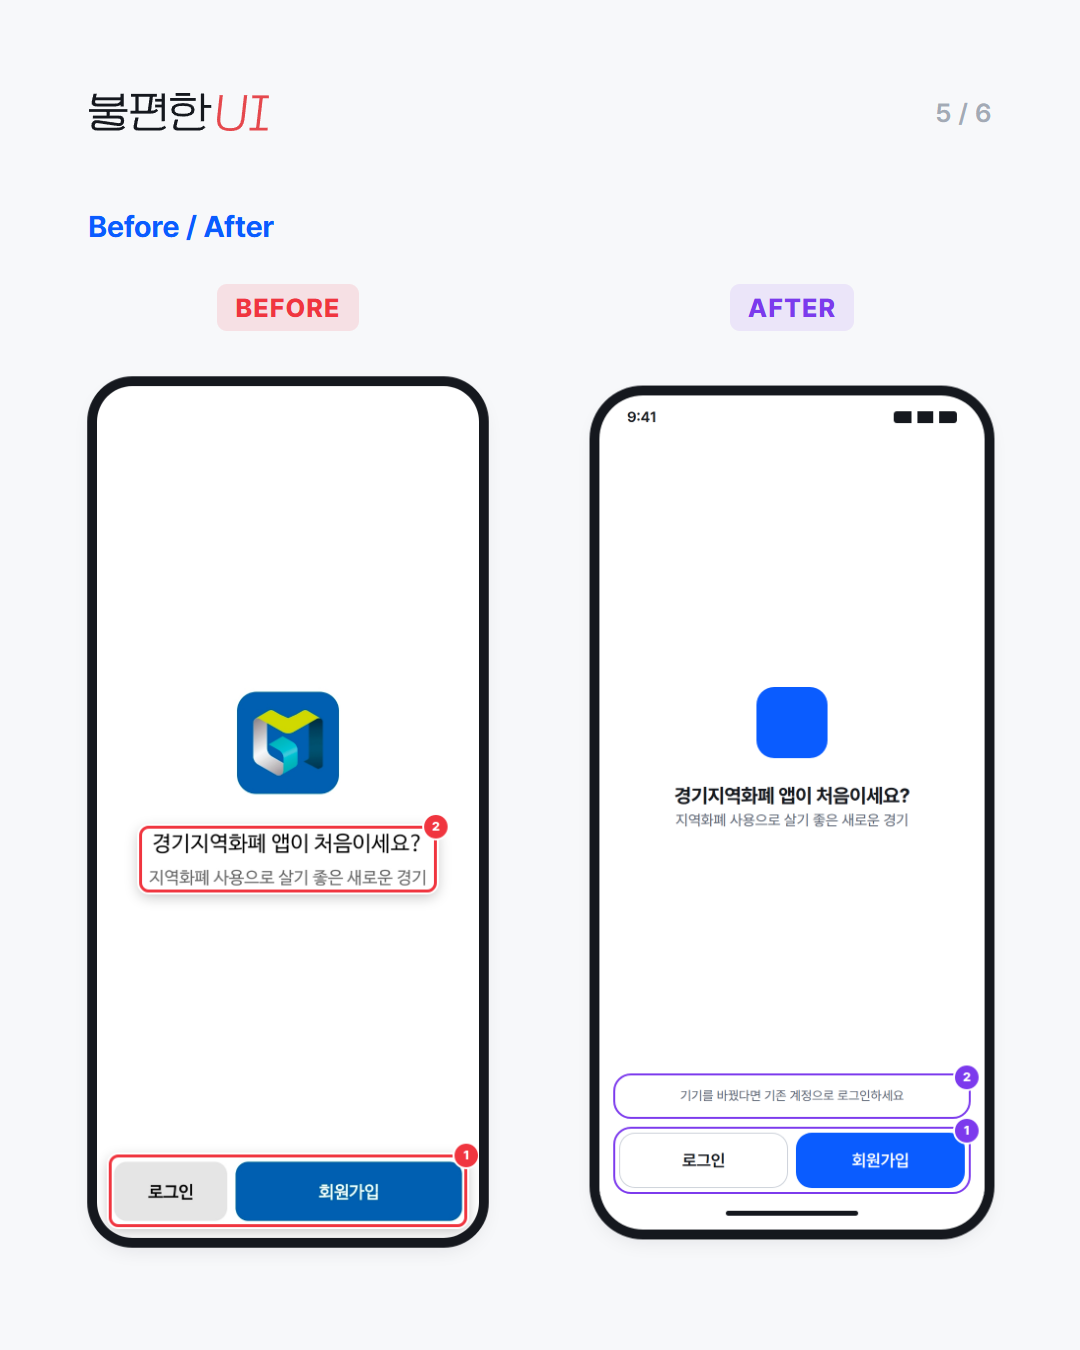
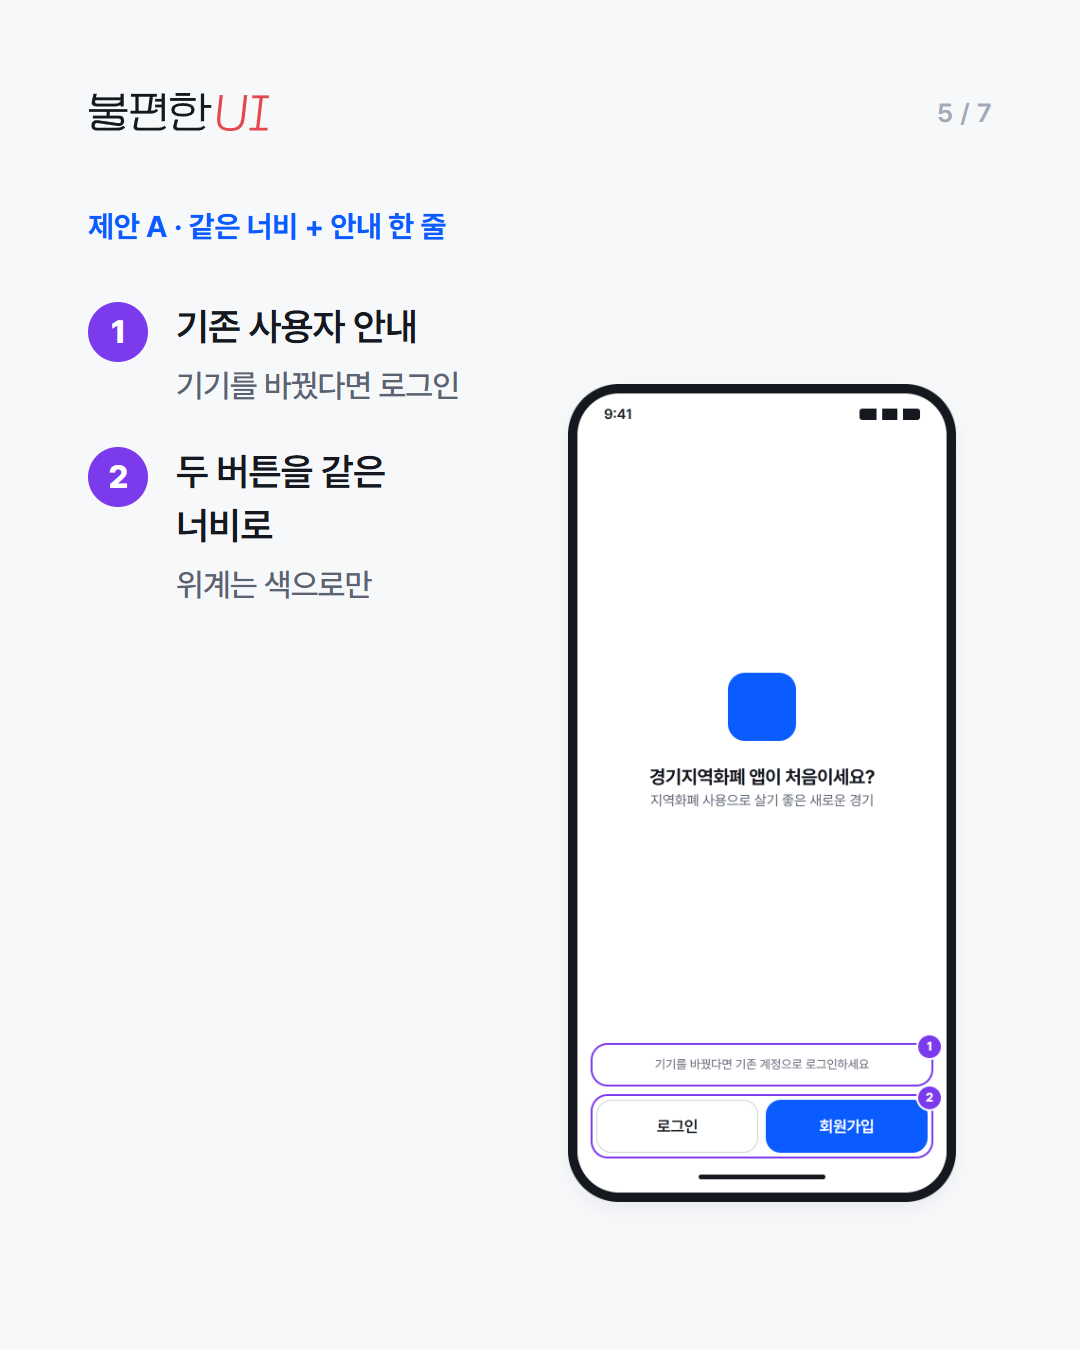
경기지역화폐 글: 원인 순서 바꿈(문구→①), 당근 참고 사례, 제안 A/B 두 가지
- 원인 ② '처음 온 사람에게만 말을 거는 문구'를 ①로, 당근 첫 화면(이미 계정이 있나요? 로그인)을 예시로
- 제안 A(같은 너비 + 안내 한 줄) / 제안 B(시작 버튼 하나 + 로그인 문장) 와이어프레임, 비교 표
- 카드뉴스 7장(참고 사례·제안 A·제안 B), 캡션이 모든 제안을 담도록 수정
- 디자인 시스템: 참고 사례용 초록 표시(.mark.good, .pane-tag.ref)

Claude-Session: https://claude.ai/code/session_0142oRkXZEugmTBAN4CvUHKQ

diff --git a/posts/2026-10-06-gyeonggi-money-login-buttons/src/compare.html b/posts/2026-10-06-gyeonggi-money-login-buttons/src/compare.html
@@ -1,16 +1,17 @@
-<!doctype html><html lang="ko"><head><meta charset="utf-8"><meta name="render-width" content="1600"><link rel="stylesheet" href="../../../kit/wire.css"></head><body>
+<!doctype html><html lang="ko"><head><meta charset="utf-8"><meta name="render-width" content="1900"><link rel="stylesheet" href="../../../kit/wire.css"></head><body>
 <div class="board" data-capture>
   <div class="board-title">이 두 버튼, 정말 이 정도로 차이를 둬야할까?</div>
   <div class="board-sub">경기지역화폐 · 앱 실행 › 로그인/회원가입 화면</div>
-  <div class="compare">
-    <div class="pane"><span class="pane-tag before">BEFORE</span><img src="../annotated.png" style="width:486px"></div>
-    <div class="pane"><span class="pane-tag after">AFTER</span><img src="../after.png" style="width:486px"></div>
+  <div class="compare" style="gap:40px">
+    <div class="pane"><span class="pane-tag before">BEFORE</span><img src="../annotated.png" style="width:420px"></div>
+    <div class="pane"><span class="pane-tag after">제안 A</span><img src="../after-a.png" style="width:420px"></div>
+    <div class="pane"><span class="pane-tag after">제안 B</span><img src="../after-b.png" style="width:420px"></div>
     <div class="notes">
-      <div class="note"><i class="n bad-n">1</i><div><b>회원가입이 로그인의 약 2배 너비</b>오른쪽 넓은 Primary 버튼이 먼저 눈에 들어오고, 손도 먼저 감</div></div>
-      <div class="note"><i class="n bad-n">2</i><div><b>문구가 신규 가입자에게만 말을 걺</b>"앱이 처음이세요?" — 기존 사용자를 위한 안내가 없음</div></div>
+      <div class="note"><i class="n bad-n">1</i><div><b>문구가 신규 가입자에게만 말을 걺</b>"앱이 처음이세요?" — 기존 사용자를 위한 안내가 없음</div></div>
+      <div class="note"><i class="n bad-n">2</i><div><b>회원가입이 로그인의 약 2배 너비</b>넓은 Primary 버튼으로 손이 먼저 감</div></div>
       <div class="divider"></div>
-      <div class="note"><i class="n">1</i><div><b>두 버튼을 같은 너비로</b>위계는 색(Primary / Outline)으로만 남김</div></div>
-      <div class="note"><i class="n">2</i><div><b>기존 사용자용 한 줄 안내</b>기기를 바꾼 사람이 로그인으로 바로 가도록</div></div>
+      <div class="note"><div><b>제안 A · 같은 너비 + 안내 한 줄</b>① 기기를 바꾼 사람을 위한 안내 ② 위계는 색으로만</div></div>
+      <div class="note"><div><b>제안 B · 시작은 하나, 로그인은 문장으로</b>① "이미 계정이 있나요? 로그인" ② 나란히 놓인 버튼을 없애 잘못 누를 일을 줄임</div></div>
     </div>
   </div>
 </div></body></html>

diff --git a/posts/2026-10-06-gyeonggi-money-login-buttons/src/after-b.html b/posts/2026-10-06-gyeonggi-money-login-buttons/src/after-b.html
@@ -1,0 +1,21 @@
+<!doctype html><html lang="ko"><head><meta charset="utf-8"><meta name="render-width" content="520"><link rel="stylesheet" href="../../../kit/wire.css"></head><body>
+<div class="capture" data-capture>
+<div class="phone">
+  <div class="statusbar">9:41</div>
+  <div class="screen">
+    <div class="grid gap-6 mt-auto">
+      <div class="span-4 row center"><span class="app-icon"></span></div>
+      <div class="span-4 center">
+        <div class="t-title2">경기지역화폐 앱이 처음이세요?</div>
+        <div class="t-body2 c-sub">지역화폐 사용으로 살기 좋은 새로운 경기</div>
+      </div>
+    </div>
+    <div class="mt-auto"></div>
+  </div>
+  <div class="cta">
+    <div class="fix"><i class="n">2</i><button class="btn btn-l btn-primary btn-block">회원가입하고 시작하기</button></div>
+    <div class="row center fix"><i class="n">1</i><span class="t-body2 c-sub">이미 계정이 있나요?</span><button class="btn btn-text c-primary">로그인</button></div>
+  </div>
+  <div class="homebar"></div>
+</div>
+</div></body></html>

diff --git a/posts/2026-10-06-gyeonggi-money-login-buttons/src/after-a.html b/posts/2026-10-06-gyeonggi-money-login-buttons/src/after-a.html
@@ -11,10 +11,10 @@
       </div>
     </div>
     <div class="mt-auto"></div>
-    <div class="grid pb-2"><div class="span-4 center t-caption1 c-sub fix pad"><i class="n">2</i>기기를 바꿨다면 기존 계정으로 로그인하세요</div></div>
+    <div class="grid pb-2"><div class="span-4 center t-caption1 c-sub fix pad"><i class="n">1</i>기기를 바꿨다면 기존 계정으로 로그인하세요</div></div>
   </div>
   <div class="cta">
-    <div class="btn-group fix"><i class="n">1</i><button class="btn btn-l btn-outline">로그인</button><button class="btn btn-l btn-primary">회원가입</button></div>
+    <div class="btn-group fix"><i class="n">2</i><button class="btn btn-l btn-outline">로그인</button><button class="btn btn-l btn-primary">회원가입</button></div>
   </div>
   <div class="homebar"></div>
 </div>

diff --git a/posts/2026-10-06-gyeonggi-money-login-buttons/src/ref.html b/posts/2026-10-06-gyeonggi-money-login-buttons/src/ref.html
@@ -1,8 +1,7 @@
 <!doctype html><html lang="ko"><head><meta charset="utf-8"><meta name="render-width" content="480"><link rel="stylesheet" href="../../../kit/wire.css"></head><body>
 <div class="capture" data-capture>
   <div class="shot">
-    <img src="../../../work/issue-1/media/m1.jpg">
-    <div class="mark" style="left:11%;top:51.6%;width:78%;height:7.8%"><i class="n">1</i></div>
-    <div class="mark" style="left:3%;top:90.2%;width:94%;height:8.5%"><i class="n">2</i></div>
+    <img src="ref-danggeun.jpg">
+    <div class="mark good" style="left:24%;top:93.6%;width:52%;height:3.6%"><i class="n">✓</i></div>
   </div>
 </div></body></html>

diff --git a/kit/annotate.css b/kit/annotate.css
@@ -41,3 +41,8 @@
 .note .n { position: static; flex: none; box-shadow: none; }
 .note b { display: block; margin-bottom: 2px; color: var(--text-strong); }
 .notes .divider { margin: 4px 0; }
+
+/* ── 참고 사례 (다른 앱의 좋은 예) ── */
+.mark.good { border-color: var(--success); }
+.mark.good .n, .n.good-n { background: var(--success); }
+.pane-tag.ref { background: var(--success-weak); color: var(--success); }

diff --git a/posts/2026-10-06-gyeonggi-money-login-buttons/index.md b/posts/2026-10-06-gyeonggi-money-login-buttons/index.md
@@ -11,7 +11,7 @@ cover: compare.png
 status: published
 ---
 
-![Before / After](compare.png)
+![Before / 제안 A / 제안 B](compare.png)
 
 ## 하려던 일
 
@@ -25,25 +25,50 @@ status: published
 
 ## 왜 불편할까
 
-**① 위계가 색과 크기, 두 겹으로 걸려 있어요.** 캡처에서 회원가입 버튼은 로그인 버튼보다 2배쯤 넓고, 화면에서 유일하게 진한 색을 써요. 로그인은 연한 회색이에요. 색만 달랐다면 "회원가입이 더 권하는 쪽이구나" 정도로 읽혔을 거예요. 그런데 크기까지 크게 다르면 넓은 버튼이 사실상 "이 화면의 유일한 버튼"처럼 보여요. 게다가 목표물이 클수록 빠르게 누르기 쉬워요(피츠의 법칙: 누르는 데 드는 시간은 목표까지의 거리와 목표의 크기에 따라 달라진다는 원리). 그래서 손이 넓은 쪽으로 먼저 가요. 화면에서 손가락이 가장 많이 머무는 하단 영역의 대부분을 회원가입이 차지하고 있어요.
+**① 문구가 처음 온 사람에게만 말을 걸어요.** 화면에 있는 문장은 "경기지역화폐 앱이 처음이세요?" 하나뿐이에요. 기기를 바꿔 다시 들어온 사람에게는 어디로 가라는 안내가 없어요. 결국 버튼 모양만 보고 판단하게 되고, ②와 겹쳐서 회원가입 쪽으로 손이 가요.
 
-**② 문구가 처음 온 사람에게만 말을 걸어요.** 화면에 있는 문장은 "경기지역화폐 앱이 처음이세요?" 하나뿐이에요. 기기를 바꿔 다시 들어온 사람에게는 어디로 가라는 안내가 없어요. 결국 버튼 모양만 보고 판단하게 되고, ①과 겹쳐서 회원가입 쪽으로 손이 가요.
+같은 구조인 당근의 첫 화면과 비교해 보면 차이가 분명해요. 당근도 "시작하기" 버튼 하나를 크게 두고 로그인은 작게 둬요. 위계 차이는 오히려 더 커요. 그런데 그 아래에 **"이미 계정이 있나요? 로그인"** 이라고, 기존 사용자를 직접 부르는 문장이 있어요. 그래서 로그인이 작아도 찾는 사람은 바로 찾아요.
+
+![참고: 당근 첫 화면](ref.png)
+
+**② 위계가 색과 크기, 두 겹으로 걸려 있어요.** 캡처에서 회원가입 버튼은 로그인 버튼보다 2배쯤 넓고, 화면에서 유일하게 진한 색을 써요. 로그인은 연한 회색이에요. 색만 달랐다면 "회원가입이 더 권하는 쪽이구나" 정도로 읽혔을 거예요. 그런데 크기까지 크게 다르면 넓은 버튼이 사실상 "이 화면의 유일한 버튼"처럼 보여요. 게다가 목표물이 클수록 빠르게 누르기 쉬워요(피츠의 법칙: 누르는 데 드는 시간은 목표까지의 거리와 목표의 크기에 따라 달라진다는 원리). 그래서 손이 넓은 쪽으로 먼저 가요. 화면에서 손가락이 가장 많이 머무는 하단 영역의 대부분을 회원가입이 차지하고 있어요.
 
 ## 이렇게 바꿔보면
 
-![수정안](after.png)
+두 가지로 그려봤어요. A는 제보 아이디어(같은 너비)를 그대로 따르고, B는 당근처럼 문장으로 기존 사용자를 불러요.
 
-**① 두 버튼의 너비를 같게 해요.** 로그인과 회원가입을 같은 너비로 나란히 두고, 위계는 색으로만 남겨요. 회원가입은 Primary(채운 버튼), 로그인은 Outline(테두리 버튼)이에요. 신규 가입을 권하는 의도는 지키면서, 로그인도 "같은 크기의 선택지"로 보여요.
+### 제안 A. 같은 너비 + 안내 한 줄
 
-**② 기존 사용자에게 한 줄 안내를 더해요.** 버튼 바로 위에 "기기를 바꿨다면 기존 계정으로 로그인하세요"라고 적어요. 환영 문구는 그대로 두고, 두 번째 부류의 사용자에게도 갈 곳을 알려줘요.
+![제안 A](after-a.png)
+
+**① 기존 사용자에게 한 줄 안내를 더해요.** 버튼 바로 위에 "기기를 바꿨다면 기존 계정으로 로그인하세요"라고 적어요. 환영 문구는 그대로 두고, 두 번째 부류의 사용자에게도 갈 곳을 알려줘요.
+
+**② 두 버튼의 너비를 같게 해요.** 로그인과 회원가입을 같은 너비로 나란히 두고, 위계는 색으로만 남겨요. 회원가입은 Primary(채운 버튼), 로그인은 Outline(테두리 버튼)이에요. 신규 가입을 권하는 의도는 지키면서, 로그인도 "같은 크기의 선택지"로 보여요.
+
+### 제안 B. 시작은 하나로, 로그인은 문장으로
+
+![제안 B](after-b.png)
+
+**① "이미 계정이 있나요? 로그인"으로 기존 사용자를 직접 불러요.** 로그인을 버튼 모양으로 경쟁시키지 않고, 질문 문장 끝에 붙여요. 기기를 바꾼 사람은 "이미 계정이 있나요?"에서 자기 얘기라는 걸 바로 알아봐요.
+
+**② 회원가입은 꽉 찬 버튼 하나로 둬요.** 비슷한 버튼 두 개가 나란히 붙어 있지 않으니, 옆 버튼을 잘못 누를 일 자체가 줄어요. 버튼 문구도 "회원가입하고 시작하기"로 무엇을 하는 버튼인지 분명히 해요.
+
+### A와 B, 어느 쪽이 나을까
+
+| | 제안 A | 제안 B |
+|---|---|---|
+| 로그인 찾기 | 같은 크기 버튼으로 바로 보임 | 문장을 읽어야 보이지만, 자기 얘기라 금방 찾음 |
+| 잘못 누를 위험 | 줄지만 두 버튼은 여전히 나란히 있음 | 비슷한 버튼이 나란히 있지 않아 더 적음 |
+| 신규 가입 유도 | 색으로만 | 큰 버튼 하나로 더 강하게 |
+| 바꾸는 범위 | 버튼 너비 + 문구 한 줄 | 버튼 구성 자체를 바꿈 |
 
 ## 고려한 점
 
-- **신규 가입이 줄어들까?** 회원가입 버튼을 크게 만든 건 첫 화면에서 가입을 늘리려는 의도였을 수 있어요(추정). 수정안은 색 위계를 그대로 두어서, 권하는 쪽은 여전히 회원가입이에요.
-- **버튼 순서는 바꾸지 않았어요.** 로그인을 오른쪽으로 옮기는 방법도 있지만, 이미 이 배치에 익숙한 사용자가 오히려 헷갈릴 수 있어요. 이번 제안은 너비만 맞추는 데서 멈췄어요.
-- **안내 문구 한 줄이 늘어요.** 화면에 글이 조금 늘지만, 하단 영역은 원래 비어 있던 공간이라 레이아웃 부담은 크지 않아요.
-- 대안으로, 두 버튼을 세로로 쌓아 같은 너비로 두는 방법도 있어요. 다만 이렇게 하면 화면 아래 공간을 더 차지해요.
+- **신규 가입이 줄어들까?** 회원가입 버튼을 크게 만든 건 첫 화면에서 가입을 늘리려는 의도였을 수 있어요(추정). A는 색 위계를 그대로 두어서, B는 큰 버튼을 회원가입에 남겨서, 둘 다 권하는 쪽은 여전히 회원가입이에요.
+- **B는 로그인 영역이 작아져요.** 글자만 누르게 하면 손가락으로 맞히기 어려워요. 문장 전체 줄을 누를 수 있게 하거나, 로그인 글자 주변으로 최소 48dp 높이의 누를 영역을 확보해야 해요.
+- **B는 제보 아이디어와 방향이 달라요.** 제보는 "버튼 크기를 같게"였고, B는 크기 차이를 오히려 키우는 대신 문장으로 길을 알려줘요. 어느 쪽이 맞는지는 이 화면을 보는 사람 중 기존 사용자가 얼마나 되는지에 따라 달라요.
+- **버튼 순서는 바꾸지 않았어요(A).** 로그인을 오른쪽으로 옮기는 방법도 있지만, 이미 이 배치에 익숙한 사용자가 오히려 헷갈릴 수 있어요.
 
 ## 한 줄 정리
 
-권하고 싶은 쪽은 색으로 알려주고, 누를 수 있는 크기는 똑같이 나눠주세요.
+기존 사용자를 말로 불러주거나, 누를 수 있는 크기를 똑같이 나눠주세요. 둘 중 하나만 있어도 로그인을 잘못 누를 일은 줄어요.

diff --git a/kit/DESIGN.md b/kit/DESIGN.md
@@ -78,7 +78,7 @@
 | 자리표시 | `.ph`(`.r-16-9` `.r-1-1` `.r-4-3`) `.thumb` `.avatar` `.app-icon` `.skel` |
 | 내비 | `.tabs`(`.scroll`) `.navbar`(`--tabs:N`) |
 | 오버레이 | `.scrim` `.sheet` `.sheet-title` `.dialog` `.toast` `.fab` |
-| 주석 | `.fix` `.bad` (`.pad`) `.n` (`.l`) / `.shot` `.mark`(`.fill`) `.redact` / `.capture` `.board` `.compare` `.pane` `.pane-tag` `.notes` `.note` |
+| 주석 | `.fix` `.bad` (`.pad`) `.n` (`.l` `.bad-n` `.good-n`) · 참고 사례 `.mark.good` `.pane-tag.ref` / `.shot` `.mark`(`.fill`) `.redact` / `.capture` `.board` `.compare` `.pane` `.pane-tag` `.notes` `.note` |
 
 ## 6. 그리는 순서
 
